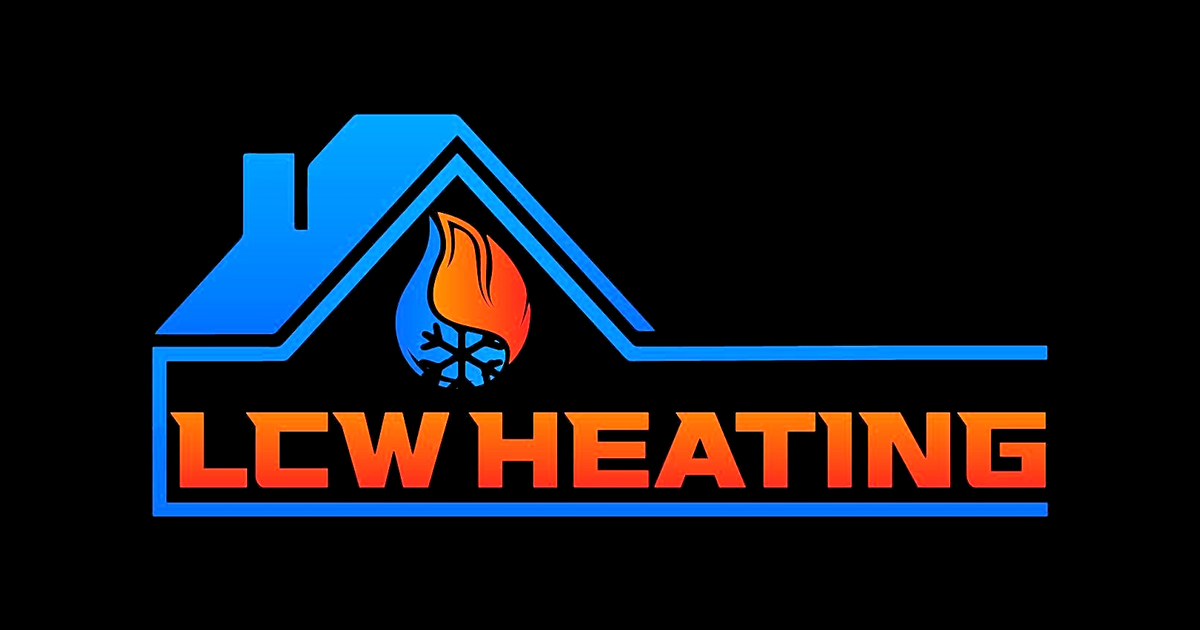
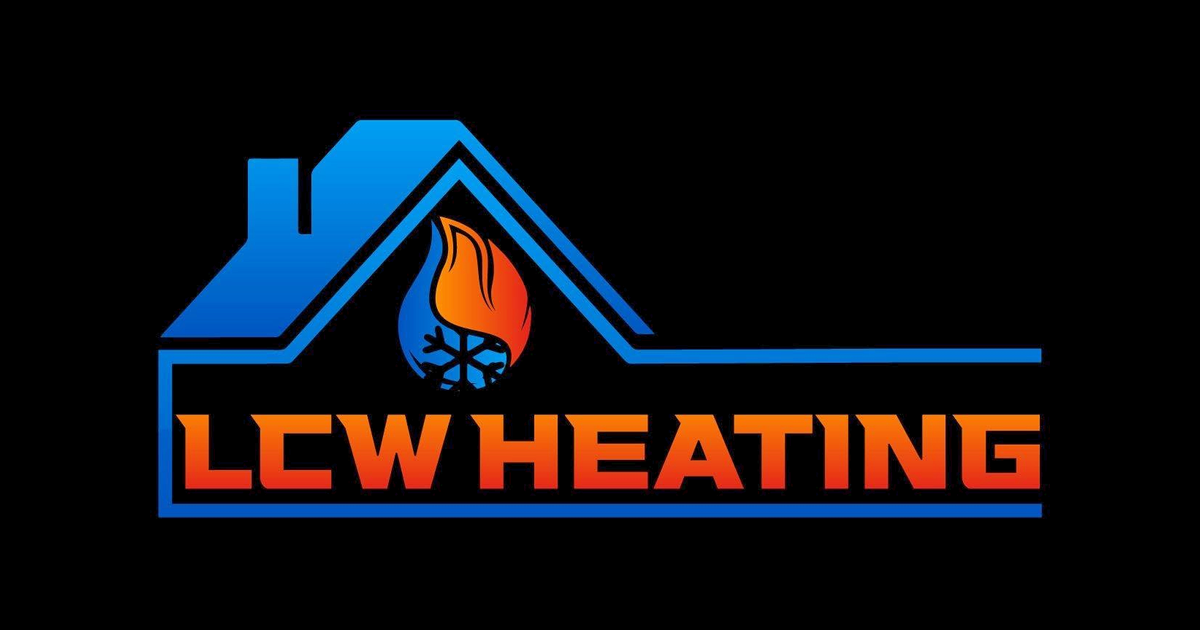
Add files via upload

Changed region(s): [[0.1233, 0.181, 0.8942, 0.8444]]

diff --git a/assets/style.css b/assets/style.css
@@ -52,7 +52,7 @@ nav a:hover,nav a[aria-current=page]{color:var(--blueL)}
 .hero::after{content:"";position:absolute;left:50%;top:26%;transform:translateX(-50%);width:520px;height:420px;
   background:radial-gradient(ellipse at center,rgba(241,98,13,.20),transparent 65%);pointer-events:none}
 .hero .inner{position:relative;z-index:2}
-.hero .logo{width:min(560px,86vw);margin:0 auto 40px}
+.hero .logo{width:min(560px,86vw);height:auto;margin:0 auto 40px}
 .hero h1{font-size:clamp(34px,5vw,58px);max-width:19ch;margin:0 auto}
 .hero h1 .g{background:linear-gradient(90deg,var(--flameL),var(--ember));-webkit-background-clip:text;background-clip:text;color:transparent}
 .hero p.lead{color:var(--ash);font-size:19px;max-width:620px;margin:22px auto 0}
@@ -183,7 +183,7 @@ form .btn{width:100%;margin-top:20px}
 /* Footer */
 footer{background:var(--black);border-top:1px solid var(--line);padding:56px 0 30px;color:var(--ash)}
 .foot-top{display:grid;grid-template-columns:1.5fr 1fr 1fr;gap:40px;padding-bottom:36px;border-bottom:1px solid var(--line)}
-.foot-brand img{width:200px;margin-bottom:16px}
+.foot-brand img{width:200px;height:auto;margin-bottom:16px}
 .foot-brand p{font-size:14px;max-width:320px}
 .foot-col h2{font-size:11.5px;letter-spacing:.14em;text-transform:uppercase;color:#fff;font-weight:700;margin-bottom:16px}
 .foot-col a{display:block;font-size:14px;margin-bottom:10px;transition:color .15s}